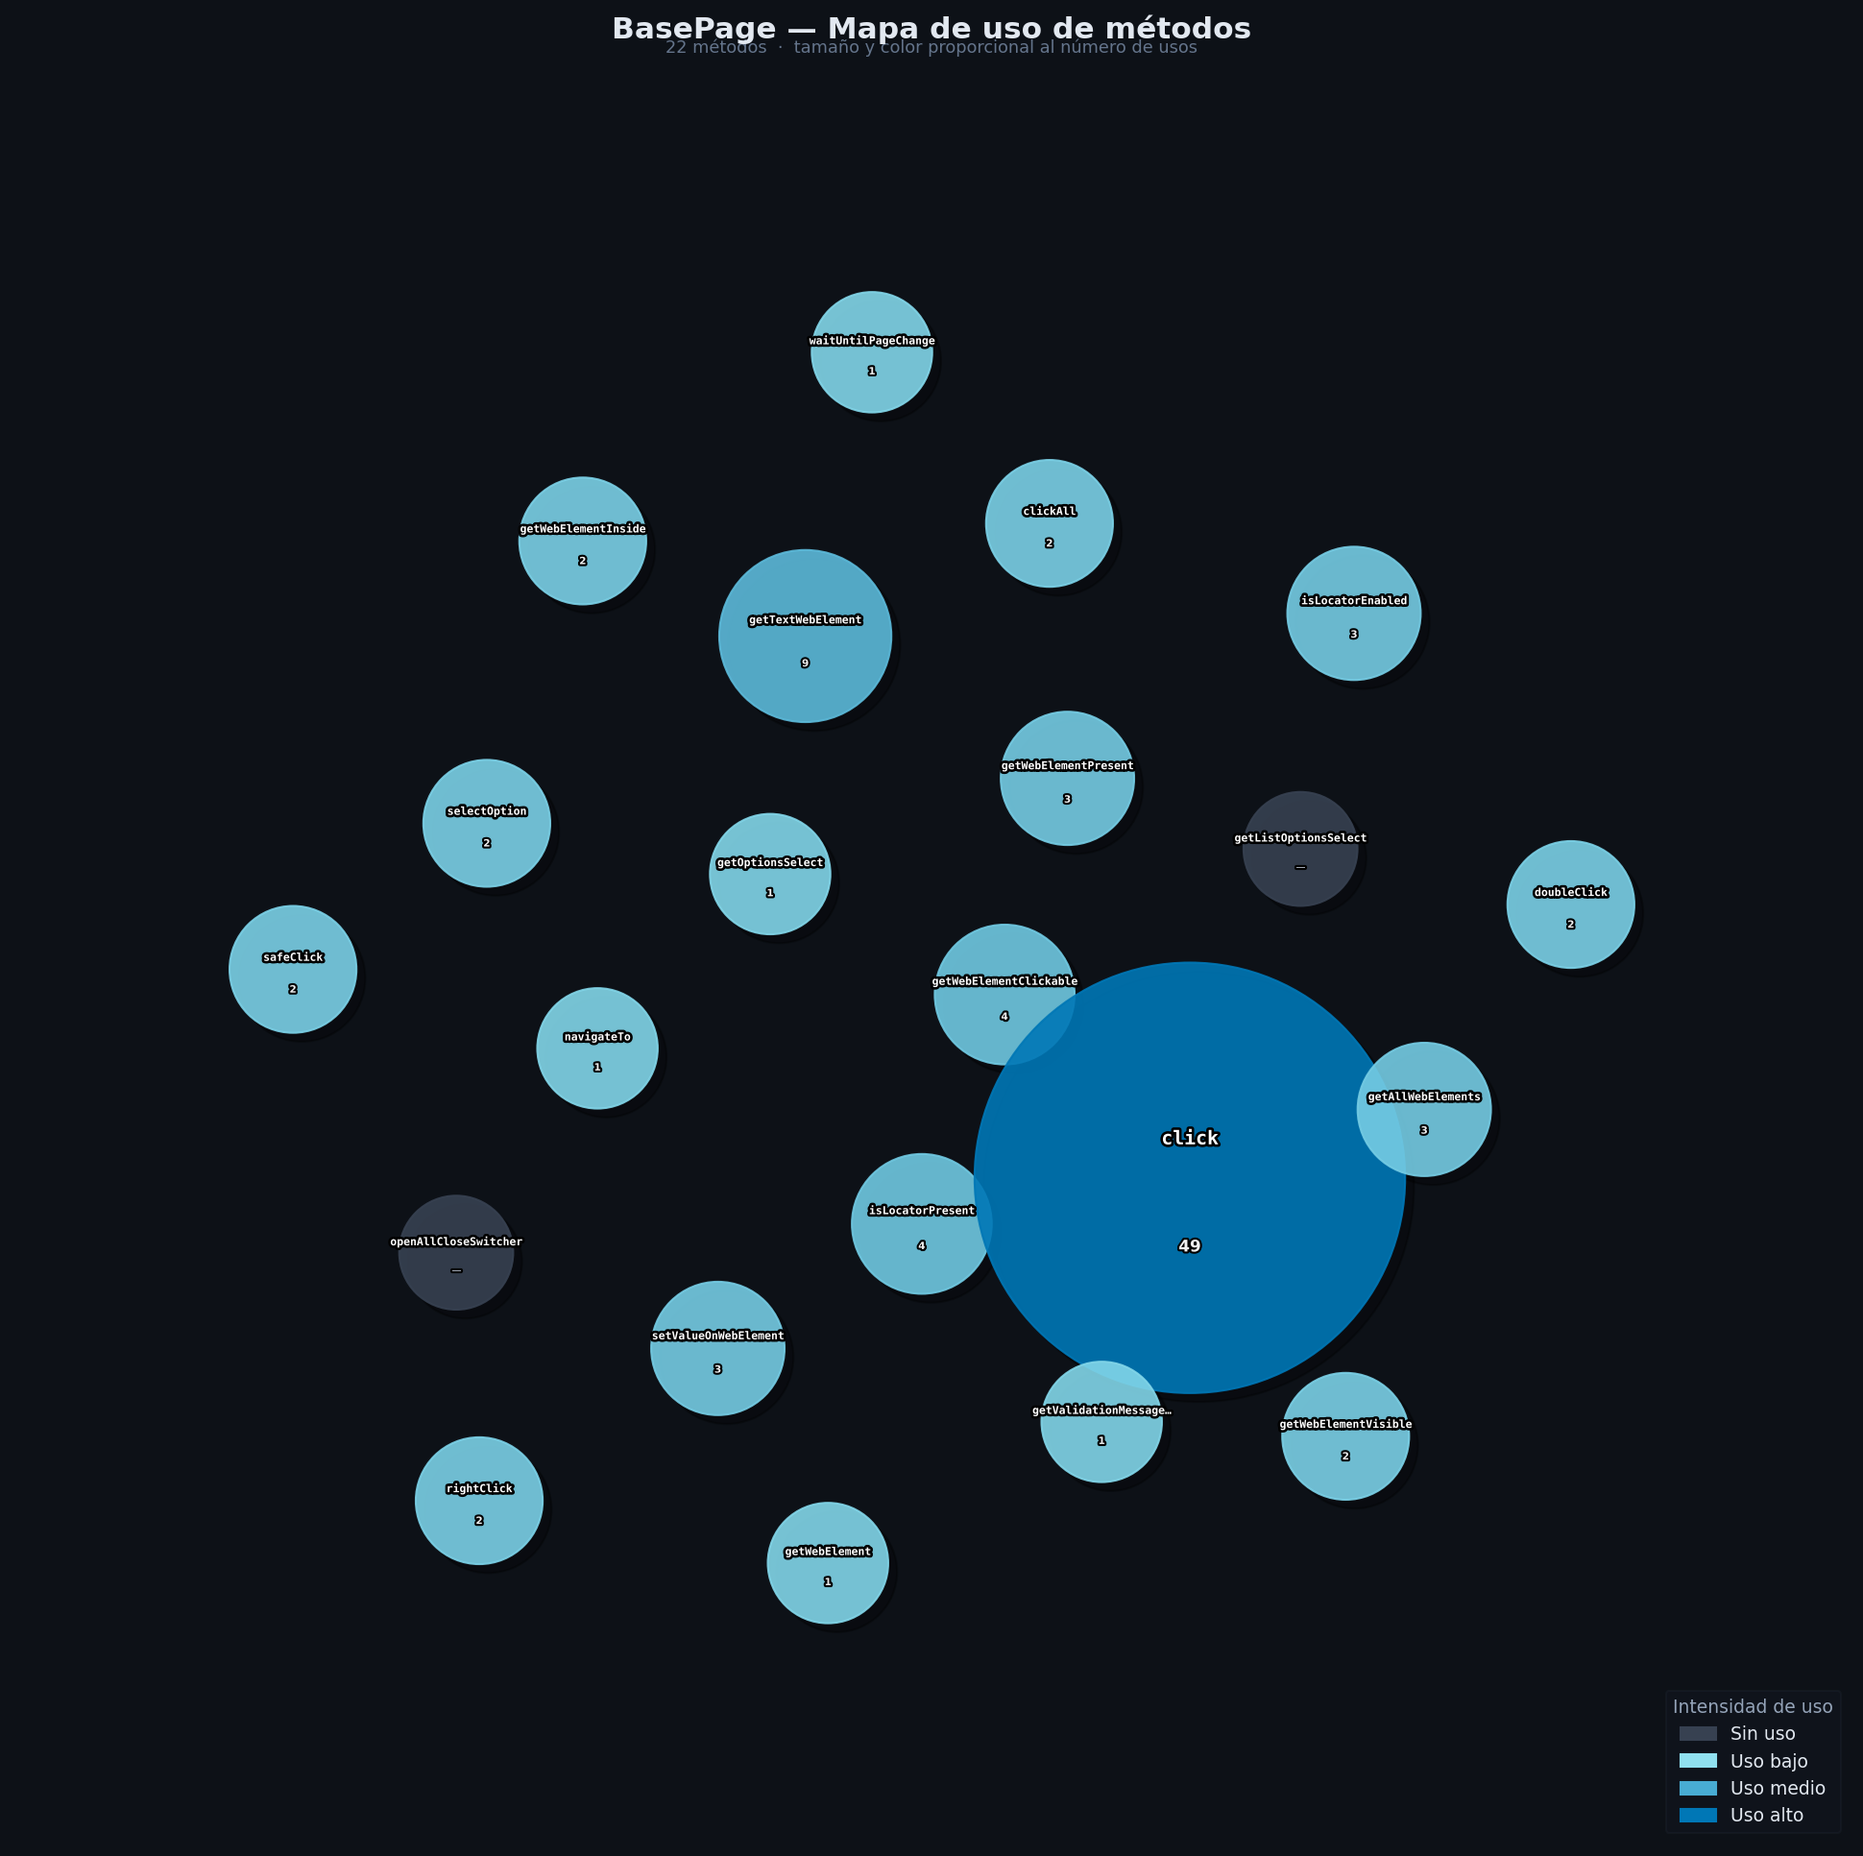
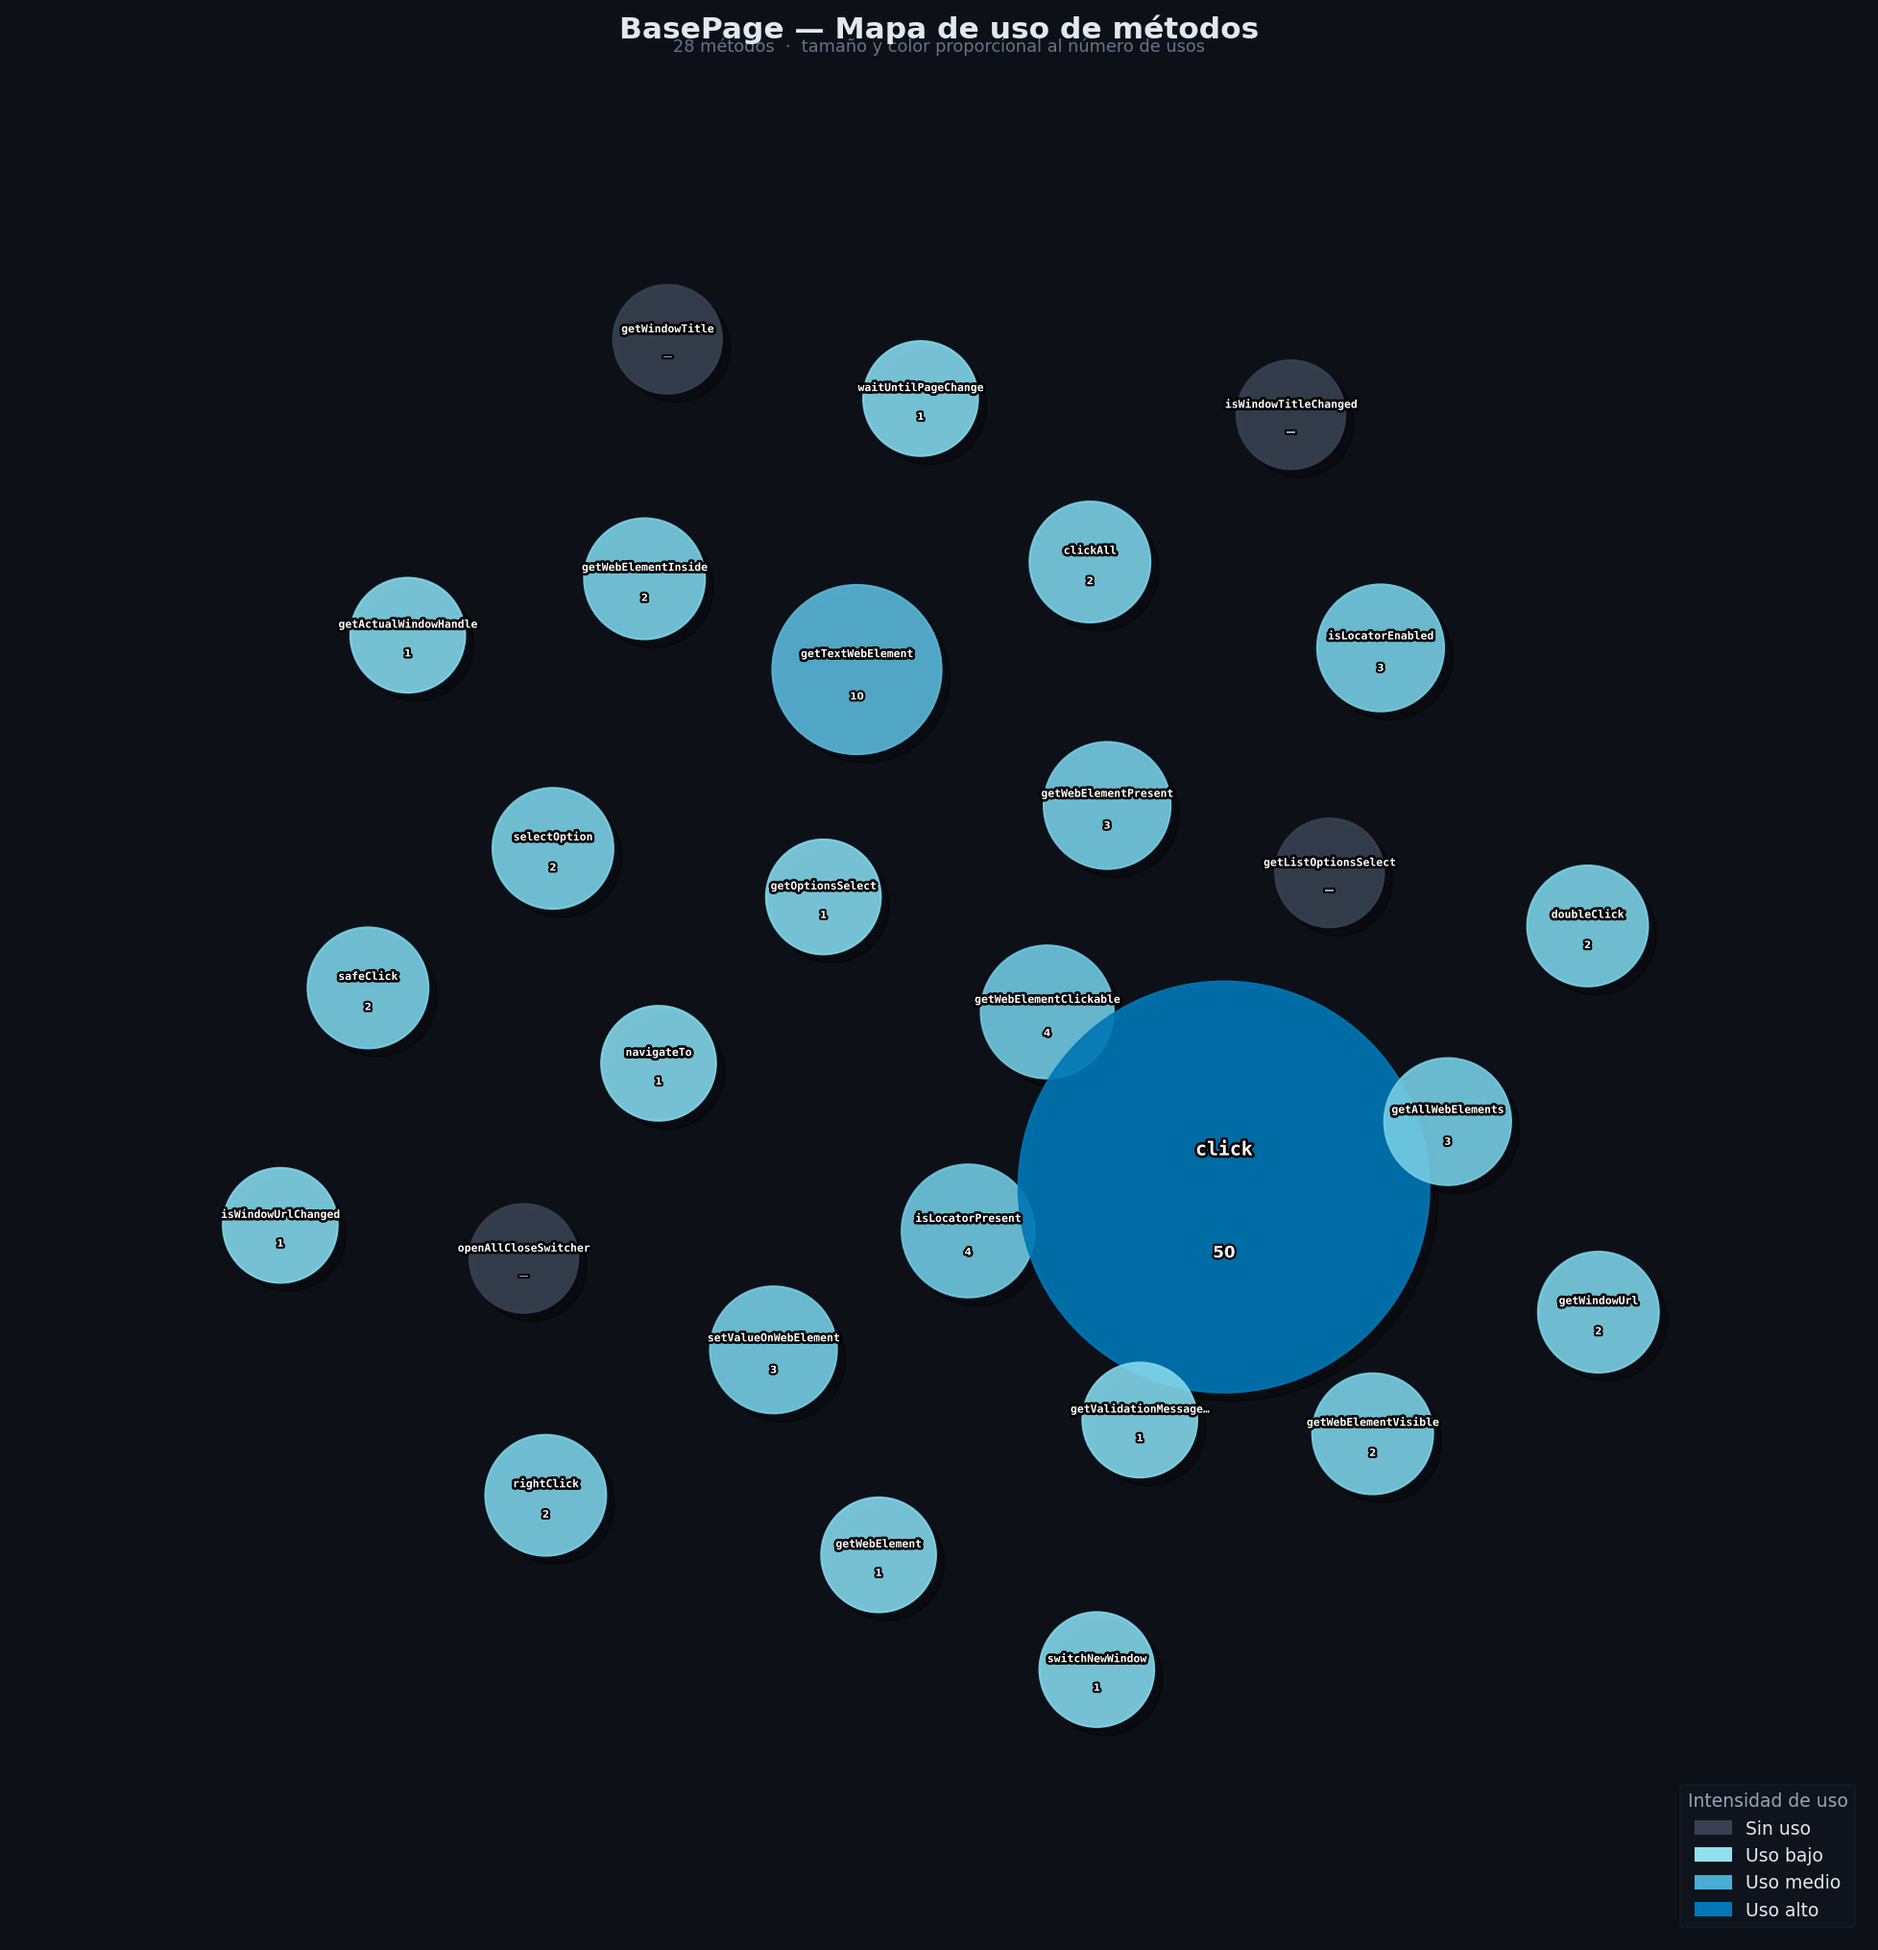
docs: auto-update README y bubble chart

diff --git a/README.md b/README.md
@@ -93,6 +93,7 @@ base-page-automation/
         │   ├── runner/
         │   │   └── TestRunner.java
         │   └── steps/
+        │       ├── BrokenLinksSteps.java
         │       ├── ButtonsSteps.java
         │       ├── CheckBoxSteps.java
         │       ├── LinksSteps.java
@@ -103,6 +104,7 @@ base-page-automation/
         └── resources/
             └── features/
                 ├── business/
+                │   ├── brokenlinks.feature
                 │   ├── buttons.feature
                 │   ├── checkbox.feature
                 │   ├── links.feature
@@ -116,7 +118,7 @@ base-page-automation/
 <!-- TREE:END -->
 
 <!-- METHODS:START -->
-## 📋 Métodos disponibles (22)
+## 📋 Métodos disponibles (28)
 
 | Clase | Visibilidad | Método | Descripción | Parámetros | Retorna | # Usos |
 |-------|-------------|--------|-------------|------------|---------|--------|
@@ -125,8 +127,8 @@ base-page-automation/
 | <sub>`BasePage.java`</sub> | <sub>`public`</sub> | <sub>`isLocatorPresent()`</sub> | <sub>Nos dice si un locator está presente</sub> | <sub>`String locator`: XPath del elemento web que queremos buscar</sub> | <sub>boolean true si está, caso contrario false</sub> | <sub>**4**</sub> |
 | <sub>`BasePage.java`</sub> | <sub>`public`</sub> | <sub>`getWebElementPresent()`</sub> | <sub>Espera a que un elemento esté presente en el DOM y lo retorna</sub> | <sub>`String locator`: XPath del elemento a buscar</sub> | <sub>WebElement encontrado en el DOM</sub> | <sub>**3**</sub> |
 | <sub>`BasePage.java`</sub> | <sub>`public`</sub> | <sub>`navigateTo()`</sub> | <sub>Ingresa a URL en el navegador</sub> | <sub>`String url`: Dirección web a la cual queremos dirigirnos</sub> | <sub>—</sub> | <sub>**1**</sub> |
-| <sub>`BasePage.java`</sub> | <sub>`public`</sub> | <sub>`click()`</sub> | <sub>Hace click en el locator indicado</sub> | <sub>`String locator`: XPath del locator que queremos hacerle click</sub> | <sub>—</sub> | <sub>**49**</sub> |
-| <sub>`BasePage.java`</sub> | <sub>`public`</sub> | <sub>`getTextWebElement()`</sub> | <sub>Obtiene el texto de un elemento web del DOM</sub> | <sub>`String locator`: XPath del locator que queremos su texto</sub> | <sub>String del texto en base al locator</sub> | <sub>**9**</sub> |
+| <sub>`BasePage.java`</sub> | <sub>`public`</sub> | <sub>`click()`</sub> | <sub>Hace click en el locator indicado</sub> | <sub>`String locator`: XPath del locator que queremos hacerle click</sub> | <sub>—</sub> | <sub>**50**</sub> |
+| <sub>`BasePage.java`</sub> | <sub>`public`</sub> | <sub>`getTextWebElement()`</sub> | <sub>Obtiene el texto de un elemento web del DOM</sub> | <sub>`String locator`: XPath del locator que queremos su texto</sub> | <sub>String del texto en base al locator</sub> | <sub>**10**</sub> |
 | <sub>`BasePage.java`</sub> | <sub>`public`</sub> | <sub>`setValueOnWebElement()`</sub> | <sub>Escribir texto en el elemento web del DOM</sub> | <sub>`String locator`: XPath del locator que queremos escribir<br>`String value`: Texto que queremos escribir</sub> | <sub>—</sub> | <sub>**3**</sub> |
 | <sub>`BasePage.java`</sub> | <sub>`public`</sub> | <sub>`getListOptionsSelect()`</sub> | <sub>Genera una lista de Strings en base al Select del DOM y lo retorna</sub> | <sub>`String locator`: XPath del Select a extraer las opciones</sub> | <sub>List<String> armado con las opciones</sub> | <sub>0</sub> |
 | <sub>`BasePage.java`</sub> | <sub>`public`</sub> | <sub>`selectOption()`</sub> | <sub>Selecciona una opción dentro de un Select de un elemento Web</sub> | <sub>`String locator`: XPath del Select para elegir la opción<br>`String option`: String que indica la opción que vamos a elegir en el Select</sub> | <sub>—</sub> | <sub>**2**</sub> |
@@ -142,6 +144,12 @@ base-page-automation/
 | <sub>`BasePage.java`</sub> | <sub>`public`</sub> | <sub>`waitUntilPageChange()`</sub> | <sub>Valida si se ha realizado paginación comparando los textos del paginado</sub> | <sub>`String locatorPage`: XPath texto del paginado<br>`String previousPage`: texto de la página previa</sub> | <sub>—</sub> | <sub>**1**</sub> |
 | <sub>`BasePage.java`</sub> | <sub>`public`</sub> | <sub>`rightClick()`</sub> | <sub>Hace click derecho en el locator indicado</sub> | <sub>`String locator`: XPath del locator que queremos hacerle click derecho</sub> | <sub>—</sub> | <sub>**2**</sub> |
 | <sub>`BasePage.java`</sub> | <sub>`public`</sub> | <sub>`doubleClick()`</sub> | <sub>Hace doble click en el locator indicado</sub> | <sub>`String locator`: XPath del locator que queremos hacerle doble click</sub> | <sub>—</sub> | <sub>**2**</sub> |
+| <sub>`BasePage.java`</sub> | <sub>`public`</sub> | <sub>`getActualWindowHandle()`</sub> | <sub>Obtiene el handle de la ventana actual</sub> | <sub>—</sub> | <sub>String handle de la ventana actual</sub> | <sub>**1**</sub> |
+| <sub>`BasePage.java`</sub> | <sub>`public`</sub> | <sub>`switchNewWindow()`</sub> | <sub>Cambia a la nueva ventana y confirma si pudo o no cambiar</sub> | <sub>`String actualWindowHandle`: handle de la ventana actual</sub> | <sub>boolean para confirmar si pudo cambiar o no de ventana</sub> | <sub>**1**</sub> |
+| <sub>`BasePage.java`</sub> | <sub>`public`</sub> | <sub>`isWindowTitleChanged()`</sub> | <sub>Confirma si el título de la ventana ha cambiado</sub> | <sub>`String previousTitle`: título previo de la ventana</sub> | <sub>boolean para confirmar si el título de la ventana ha cambiado o no</sub> | <sub>0</sub> |
+| <sub>`BasePage.java`</sub> | <sub>`public`</sub> | <sub>`isWindowUrlChanged()`</sub> | <sub>Confirma si el url de la ventana ha cambiado</sub> | <sub>`String previousUrl`: url previo de la ventana</sub> | <sub>boolean para confirmar si el url de la ventana ha cambiado o no</sub> | <sub>**1**</sub> |
+| <sub>`BasePage.java`</sub> | <sub>`public`</sub> | <sub>`getWindowUrl()`</sub> | <sub>Obtiene el url de la ventana</sub> | <sub>—</sub> | <sub>String url de la ventana</sub> | <sub>**2**</sub> |
+| <sub>`BasePage.java`</sub> | <sub>`public`</sub> | <sub>`getWindowTitle()`</sub> | <sub>Obtiene el título de la ventana</sub> | <sub>—</sub> | <sub>String título de la ventana</sub> | <sub>0</sub> |
 
 <!-- METHODS:END -->
 
